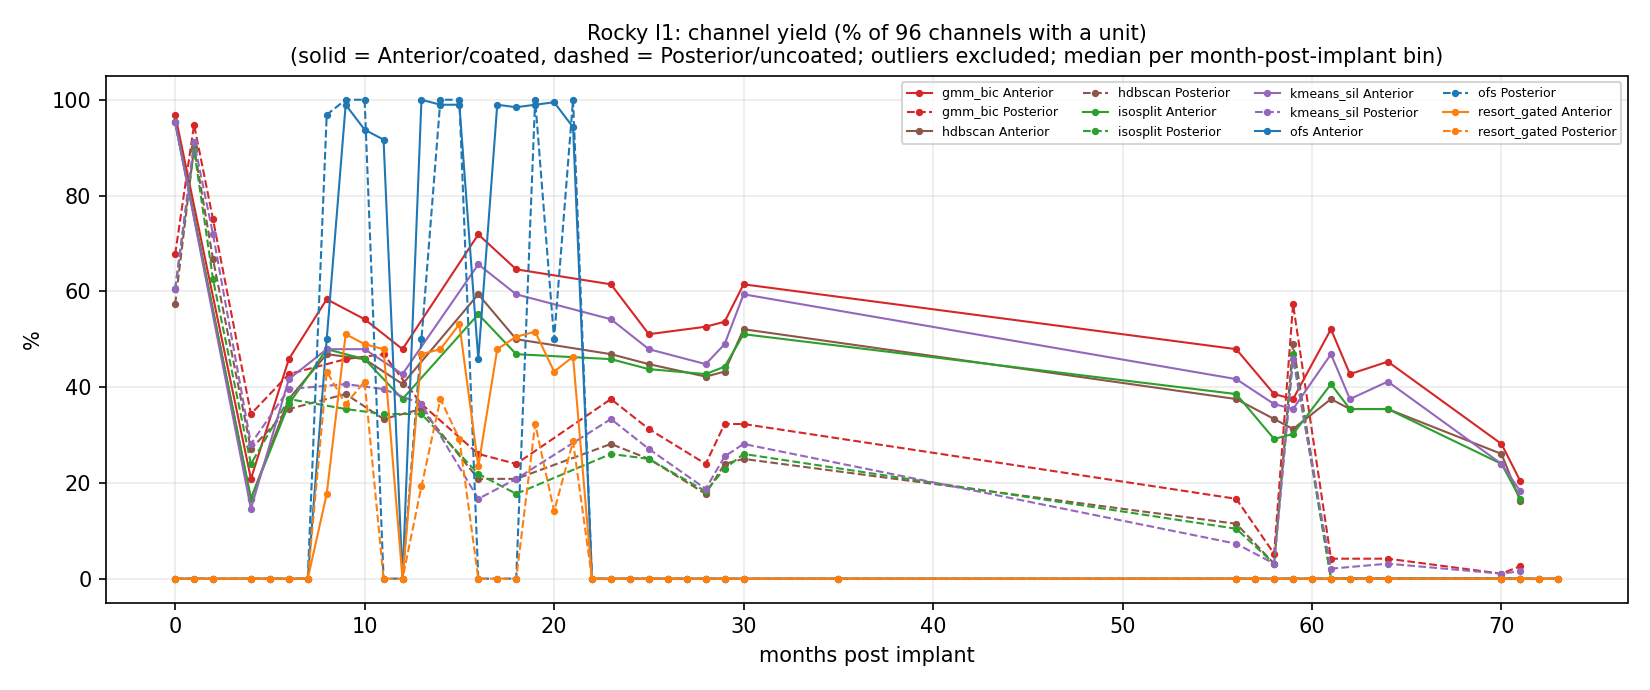
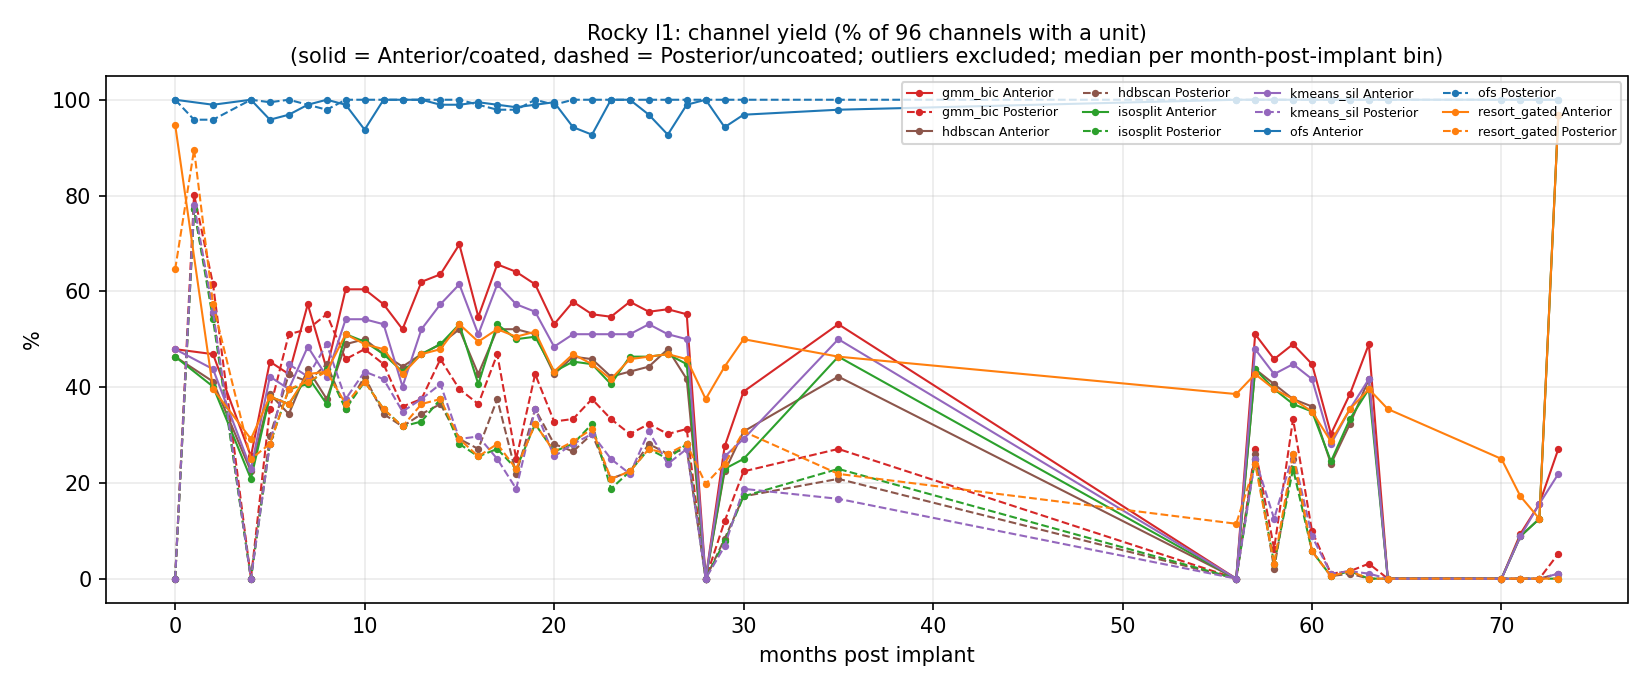
matlab_repro audit (I-008): fix units_long column drift, re-pair methods/agreement, regenerate all Rocky repro figures
- I-008: D-015 rebuild shards wrote channel_id while old shards wrote
  electrode_id; concat left 76k NaN ids in units_long for two days.
  Resort aggregation now coalesces; consumers keyed on channel_id
  (two_array_metrics yield/amp, spatial, first 09-23 MATLAB repro)
  were wrong in that window and are regenerated. Session-keyed
  results (variance, coating, longitudinal trends, headstage pairs)
  never affected; post-fix checks match the published numbers.
- scratch_rocky_methods + scratch_rocky_agreement moved to
  _pairing.paired_combos; 4 mislabeled method shards rebuilt;
  session_summary headstage labels corrected via longitudinal rerun;
  curation/spatial/coating/outlier index regenerated.
- figures/matlab_repro/rocky fully regenerated from the repaired
  tables (both MATLAB scripts, headless, clean); stale Error.txt
  (user startup.m toolbar callback on invisible figures) removed -
  the repro script suspends that CreateFcn.

diff --git a/notebooks/scratch_rocky_methods.py b/notebooks/scratch_rocky_methods.py
@@ -675,14 +675,10 @@ def main() -> int:
 
     from joblib import Parallel, delayed
 
-    combos = idx.groupby(["date", "array"])["kind"].agg(set)
-    paired = combos[combos.apply(lambda s: "ORIG" in s and "OFS" in s)].index
-    work = []
-    for date, array in paired:
-        sub = idx[(idx["date"] == date) & (idx["array"] == array)]
-        o, f = sub[sub["kind"] == "ORIG"], sub[sub["kind"] == "OFS"]
-        if len(o) and len(f):
-            work.append((o.iloc[0], f.iloc[0]))
+    # Stem-matched lineage pairing (nav D-015; the old per-side
+    # iloc[0] mispaired dual-headstage combos - nav I-007).
+    from _pairing import paired_combos
+    work = paired_combos(idx)
     if args.stratified:
         # Spread the sample evenly over year x array so every era and both
         # implants are represented. A methods comparison needs coverage of the

diff --git a/notebooks/scratch_rocky_agreement.py b/notebooks/scratch_rocky_agreement.py
@@ -275,14 +275,10 @@ def main() -> int:
     OUT_DIR.mkdir(parents=True, exist_ok=True)
 
     idx = pd.read_parquet(INDEX_IN)
-    combos = idx.groupby(["date", "array"])["kind"].agg(set)
-    paired = combos[combos.apply(lambda s: "ORIG" in s and "OFS" in s)].index
-    work = []
-    for date, array in paired:
-        sub = idx[(idx["date"] == date) & (idx["array"] == array)]
-        o, f = sub[sub["kind"] == "ORIG"], sub[sub["kind"] == "OFS"]
-        if len(o) and len(f):
-            work.append((o.iloc[0], f.iloc[0]))
+    # Stem-matched lineage pairing (nav D-015; the old per-side
+    # iloc[0] mispaired dual-headstage combos - nav I-007).
+    from _pairing import paired_combos
+    work = paired_combos(idx)
 
     # Even spread over year x array, same rationale as the methods run
     cells: dict[tuple, list] = {}

diff --git a/notebooks/scratch_rocky_resort.py b/notebooks/scratch_rocky_resort.py
@@ -928,6 +928,15 @@ def main() -> int:
     out = pd.concat(
         [pd.read_parquet(s) for s in shards], ignore_index=True
     ) if shards else pd.DataFrame()
+    # Shards written before 2026-09-21 name the electrode column
+    # electrode_id; later ones channel_id (same quantity, the
+    # Blackrock electrode ID). Coalesce so consumers see ONE column -
+    # leaving both produced 76k NaN channel_ids (caught 2026-09-23).
+    if "electrode_id" in out.columns and "channel_id" in out.columns:
+        out["channel_id"] = out["channel_id"].fillna(out["electrode_id"])
+        out = out.drop(columns=["electrode_id"])
+    elif "electrode_id" in out.columns:
+        out = out.rename(columns={"electrode_id": "channel_id"})
     out.to_parquet(UNITS_OUT, engine="pyarrow", index=False)
 
     el = time.perf_counter() - t0

diff --git a/nav/entries/I-008-units-long-column-drift.md b/nav/entries/I-008-units-long-column-drift.md
@@ -1,0 +1,45 @@
+---
+id: I-008
+type: issue
+status: resolved
+title: Rebuilt resort shards renamed electrode_id to channel_id - units_long carried both columns with 76k NaNs for two days
+created: 2026-09-23
+actor: agent
+basis: recorded
+parent: P-03
+depends_on: [D-015]
+informs: [R-025]
+source: [notebooks/scratch_rocky_resort.py, data/derived/rocky/units_long.parquet]
+---
+Found while auditing figures/matlab_repro/rocky on owner request. The
+D-015 rebuild's process_combo writes the electrode column as
+channel_id; the 252 untouched pre-rebuild shards call it
+electrode_id. The plain concat in the resort aggregation produced a
+units_long with BOTH columns - channel_id NaN on 76,418 old-shard
+rows, electrode_id NaN on the 24,193 rebuilt rows.
+
+Damage window 2026-09-21 -> 09-23: consumers that key on channel_id
+silently dropped the 252 old combos' rows from channel-level
+quantities. Concretely wrong in that window: two_array_metrics'
+yield_pct and mean_max_amp for the ofs and resort_gated layers (and
+the 17-19 figure sets built from them), the spatial/impedance-join
+figures rerun on 09-23 morning (impedance-vs-yield read rho=-0.034
+on a third of its electrode-sessions), and the first 09-23 MATLAB
+repro pass. NOT affected: everything keyed by session or amplitude
+only - variance results (mmp2p-based, rho 0.236 stands), coating
+ratios (R-017 exact), longitudinal session trends (posterior yield
+rho -0.644 stands), events/giants (own pipeline), headstage pairs.
+
+Fix (same day): the resort aggregation now coalesces
+electrode_id -> channel_id (fillna + drop); units_long rebuilt with 0
+NaN ids; all consumers rerun (two_array_metrics, longitudinal,
+curation, spatial, coating, outlier index, MATLAB repro).
+Post-fix checks: posterior yield rho -0.644 (note: -0.64),
+impedance-vs-yield back to rho +0.013 over the full 14,964
+electrode-sessions, resort_gated yield medians a smooth 47.9 -> 6.2%
+across 2017-2023.
+
+Guard that caught it: scratch_rocky_spatial's
+`assert missing == 0, "CMP join failed"` - the one consumer that
+refuses to run with unjoined electrodes. The concat now normalizes,
+and the assert stays.

diff --git a/nav/STATE.md b/nav/STATE.md
@@ -1,4 +1,4 @@
-# STATE: SpikeInterface  (as of 337c9ce 2026-09-21; generated 2026-09-21; last reviewed 2026-09-12)
+# STATE: SpikeInterface  (as of 337c9ce 2026-09-21; generated 2026-09-23; last reviewed 2026-09-12)
 
 ## Aims
 - A-001 (active): Objective metrics that track recording quality as an implant ages
@@ -46,7 +46,7 @@ Everything in this section is gated on the human (actor or gate = human). Ranked
 - R-025 (result, current): Lineage rebuild - 80 combos re-stamped, values unchanged, every published trend stable [cited 0x]
 
 ### Lapsed (no update in more than 21 days; decide, park with a trigger, or abandon)
-- W-011 (proposed, 28 days): Retire or redirect the published dashboard pages
+- W-011 (proposed, 30 days): Retire or redirect the published dashboard pages
 
 ## Phase and position
 Planned order: P-01 parked · P-02 done · P-03 active · P-04 active · P-05 proposed · P-06 proposed · P-07 active · P-08 proposed

diff --git a/nav/DELTA.md b/nav/DELTA.md
@@ -1,4 +1,4 @@
-# DELTA: SpikeInterface  (generated 2026-09-21)
+# DELTA: SpikeInterface  (generated 2026-09-23)
 
 Since last-review 137d99e (2026-09-12), as of 337c9ce (2026-09-21).
 
